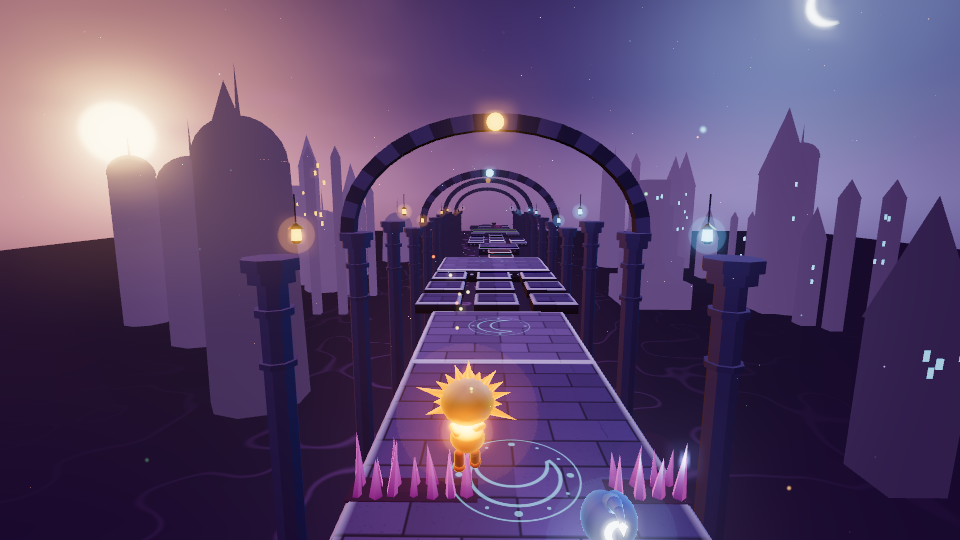
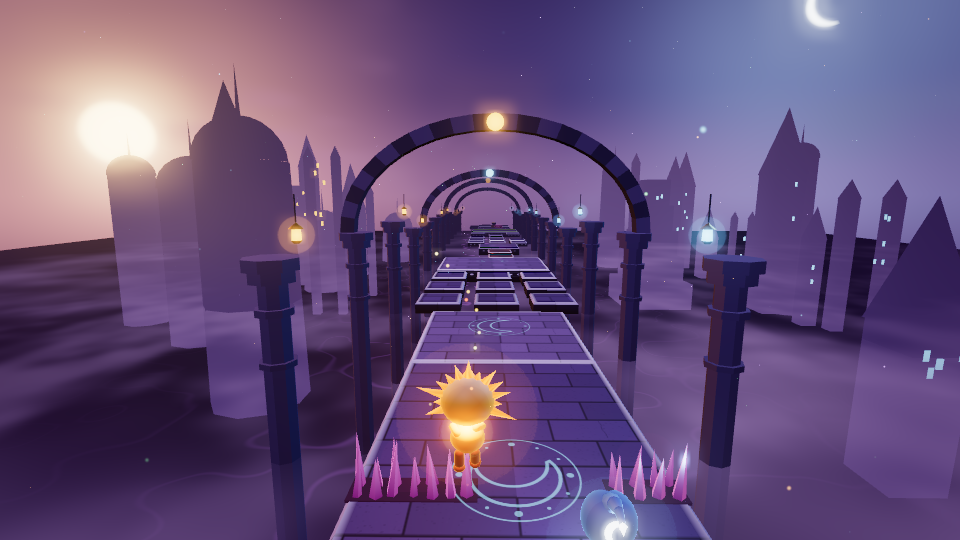
WIP Runner 3D renderer: thinner mist, smaller orange sun

diff --git a/public/js/r3d/world.js b/public/js/r3d/world.js
@@ -29,7 +29,7 @@ export function makeSky() {
         c += warm * band * smoothstep(0.1, -0.9, side) * 0.38;
         c += cool * band * smoothstep(-0.1, 0.9, side) * 0.45;
         float sd = max(dot(d, uSun), 0.0), md = max(dot(d, uMoon), 0.0);
-        c += vec3(1.0, 0.45, 0.2) * pow(sd, 16.0) * 0.45 + vec3(1.0, 0.6, 0.3) * pow(sd, 220.0) * 1.1;
+        c += vec3(1.0, 0.45, 0.2) * pow(sd, 16.0) * 0.45 + vec3(1.0, 0.5, 0.22) * pow(sd, 260.0) * 0.8;
         c += vec3(0.35, 0.6, 1.0) * pow(md, 30.0) * 0.35;
         // soft drifting cloud bands
         vec2 q = vec2(atan(d.x, -d.z) * 3.0, e * 9.0);
@@ -37,8 +37,8 @@ export function makeSky() {
         cl = smoothstep(0.5, 0.9, cl) * exp(-abs(e - 0.12) * 9.0);
         c = mix(c, mix(vec3(0.45, 0.2, 0.35), vec3(0.2, 0.25, 0.45), smoothstep(-0.5, 0.5, side)), cl * 0.45);
         // sun disc (setting, half-veiled)
-        float sun = smoothstep(0.9985, 0.9992, sd);
-        c = mix(c, vec3(4.0, 2.3, 0.9), sun);
+        float sun = smoothstep(0.9989, 0.9994, sd);
+        c = mix(c, vec3(3.0, 1.45, 0.45), sun);
         // crescent moon
         float m1 = smoothstep(0.99935, 0.9996, md);
         vec3 mo = normalize(uMoon + vec3(0.013, 0.008, 0.0));
@@ -103,7 +103,7 @@ export function makeMist(layer = 0) {
         vec2 p = vW.xz * (0.045 + uLayer * 0.02) + vec2(uTime * 0.012, uTime * (0.02 + uLayer * 0.01));
         float n = vn(p) * 0.55 + vn(p * 2.3 + 7.0) * 0.3 + vn(p * 5.1 - 3.0) * 0.15;
         float d = length(vW.xz - uCam.xz);
-        float a = smoothstep(0.35, 0.8, n) * (1.0 - smoothstep(60.0, 150.0, d)) * smoothstep(3.0, 14.0, d) * (0.42 - uLayer * 0.14);
+        float a = smoothstep(0.35, 0.8, n) * (1.0 - smoothstep(60.0, 150.0, d)) * smoothstep(3.0, 14.0, d) * (0.32 - uLayer * 0.1);
         vec3 c = mix(vec3(0.2, 0.12, 0.34), vec3(0.42, 0.28, 0.58), n);
         gl_FragColor = vec4(c, a);
         #include <tonemapping_fragment>
